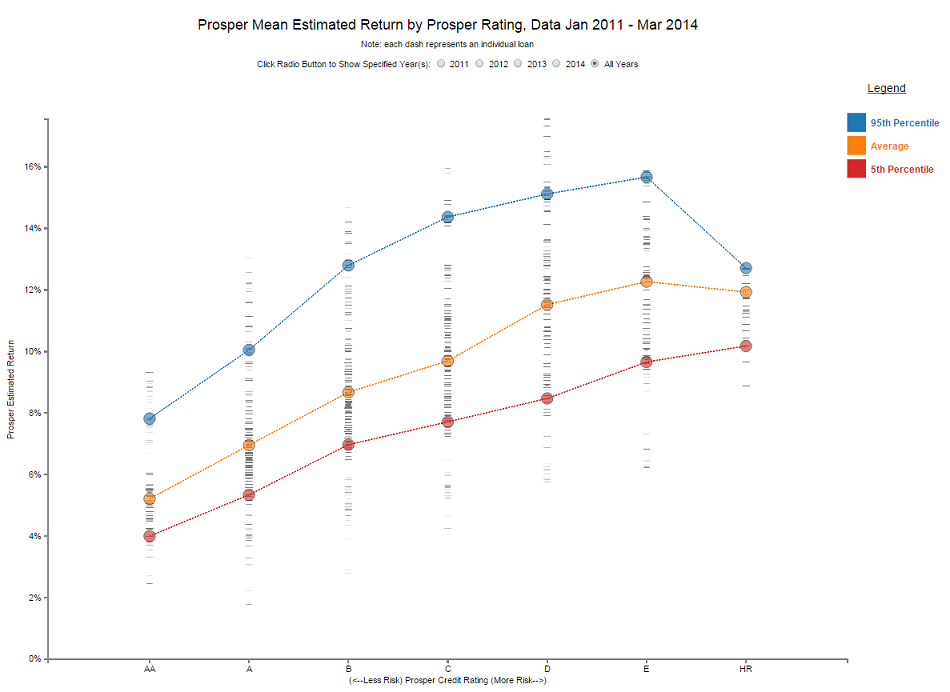
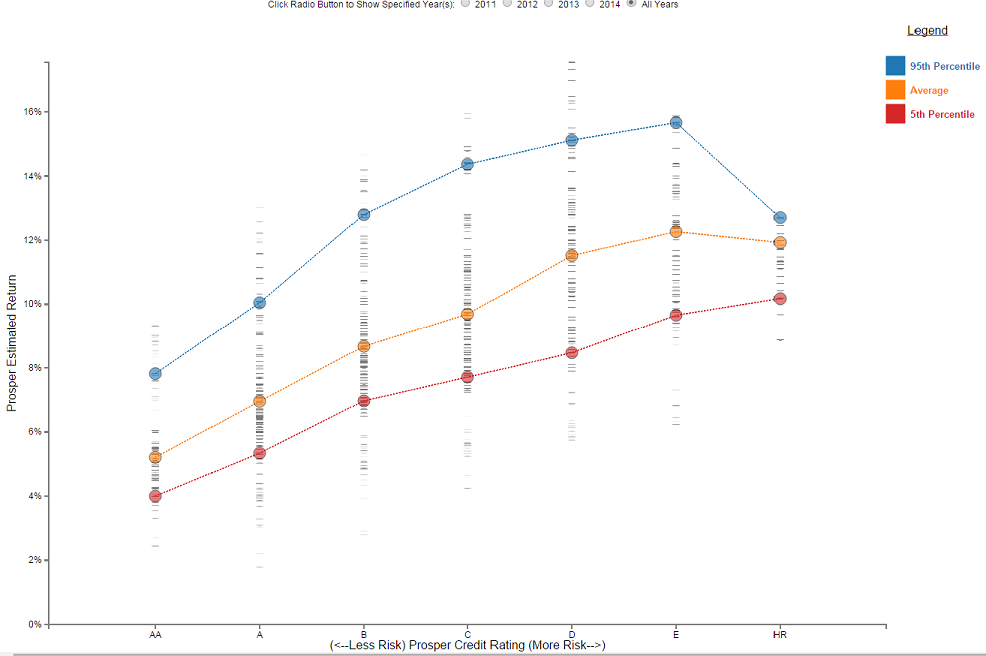
update

diff --git a/index-final.html b/index-final.html
@@ -81,8 +81,7 @@
   </form>
 
 <script type="text/javascript">
-	//d3.csv("climate4.csv", function(error, data) {
-  //color.domain(d3.keys(data[0]).filter(function(key) { return key !== "date"; }));	
+	
 	//setup our ui
     function updateEleven() {
             var new_csv = "data/prosper_clean_2011.csv";
@@ -198,17 +197,16 @@
 				.attr("text-anchor", "middle")  
 				.style("font-size", "20px") 
 				.style("text-decoration", "bold")  
-				.text("Prosper Mean Estimated Return by Prosper Rating, Data Jan 2011 - Mar 2014");
+				.text("Prosper Estimated Returns by Prosper Rating for Loans Issued between January 2011 and March 2014");
 		
-		// title draw
+		// title draw below
 		svg.append("text")
 				.attr("x", (width / 2))             
 				.attr("y", 0 - (margin.top / 1.5))
 				.attr("text-anchor", "middle")  
-				.style("font-size", "16x") 
+				.style("font-size", "16px") 
 				.style("text-decoration", "bold")  
-				.text("Note: each dash represents an individual loan");
-		
+				.text("Note: Each dash represents an individual loan");
 		
 		// legend title draw
 		svg.append("text")
@@ -217,9 +215,8 @@
 				.style("font-size", "16px") 
 				.style("text-decoration", "underline")  
 				.text("Legend");
-		
-		
 
+				
 		// x-axis draw
 		svg.append("g")
 			.attr("class", "x axis")
@@ -235,6 +232,7 @@
 		svg.append("text")
 		  .attr("transform", "translate(" + (width / 2) + " ," + (height + margin.bottom/1.5) + ")")
 		  .style("text-anchor", "middle")
+		  .style("font-size", "16px") 
 		  .text("(<--Less Risk) Prosper Credit Rating (More Risk-->)");
 	  
 		 // y-label
@@ -244,6 +242,7 @@
 			.attr("x",0 - (height / 2))
 			.attr("dy", "1em")
 			.style("text-anchor", "middle")
+			.style("font-size", "16px") 
 			.text("Prosper Estimated Return");
 
 		// all points
@@ -499,7 +498,7 @@
 		pointsnewmean.transition().duration(100)
 				.attr("cx", function(d) { return xScale(d.key); })		 
 				.attr("cy", function(d) { return yScale(d.values.avg_return); })
-				.attr("r", 10)
+				.attr("r", 8)
 				.style("fill", "#ff7f0e");
 				
 		pointsnewmean.exit().transition().duration(100).remove();
@@ -513,7 +512,7 @@
 		pointsnewupper.transition().duration(100)
 				.attr("cx", function(d) { return xScale(d.key); })		 
 				.attr("cy", function(d) { return yScale(d.values['95th-percentile']); })
-				.attr("r", 10)
+				.attr("r", 8)
 				.style("fill", "#1f77b4");
 		
 		pointsnewupper.exit().transition().duration(100).remove();
@@ -527,7 +526,7 @@
 		pointsnewlower.transition().duration(100)
 				.attr("cx", function(d) { return xScale(d.key); })		 
 				.attr("cy", function(d) { return yScale(d.values['5th-percentile']); })
-				.attr("r", 6)	
+				.attr("r", 8)	
 				.style("fill", "#d62728");
 				
 		pointsnewlower.exit().transition().duration(100).remove()

diff --git a/README.md b/README.md
@@ -66,24 +66,23 @@ I quickly realized that my graphic doesn't really help a potential investor afte
 Similar to the First Round of Visualization Feedback, I provided context and questions to be answered. This time, I had one person provide feedback. The question/answers are provided below.
 
 - What do you notice in the visualization?
-    1. All rating trends are showing decreasing estimated returns
-
+    1. The first thing that drew my attention was the vertical lines that look like a barcode. I read the title of the chart and realized what those represented. I think the title needs some work as this shows more than just the mean. I think the axis labels are too small in comparison to the title and legend.
 
 - What questions do you have about the data?
-    1. Why wouldn’t I invest in “HR” Prosper Rating every time? 
-
+    1. How many loans were actually issued? It's hard to tell. Are there actual returns available instead of estimated? Is there a way to split out the data by year? Maybe each year shows something different.
 
 - What relationships do you notice?
-    1. All of the returns show a decreasing trend
+    1. The more risk, the more reward (higher estimated return). 
 
 - What do you think is the main takeaway from this visualization?
-    1. Prosper has 7 different ratings you can choose from
-
+    1. There are seven Prosper Credit rating loans to choose from. E rating returns show the highest estimated returns although individual loans tend to vary.
 
 - Is there something you don’t understand in the graphic?
-	1. As I said before, the graphic is useful to understand the returns for each Prosper Rating over time. I just don't know why I wouldn't invest in	Rating HR (blue line) every time. Also, I noticed I could hover over the points to display a tooltip but found that out by mistake. Maybe indicate that is an option. 
+	1. What's the difference between the loans? I'm assuming there is higher risk of default on the returns with higher estimated returns (as they would garner a higher interest rate). There isn't anything that tells me default risk.
 
 ### Final Iteration Visualization with D3.js – Incorporating Second Round of Feedback
+
+![Revision_2_plot](https://github.com/medwards147/Udacity_Data_Visualization_Project_6/blob/master/plots/final_screenshot.png)
 
 
 ### References
